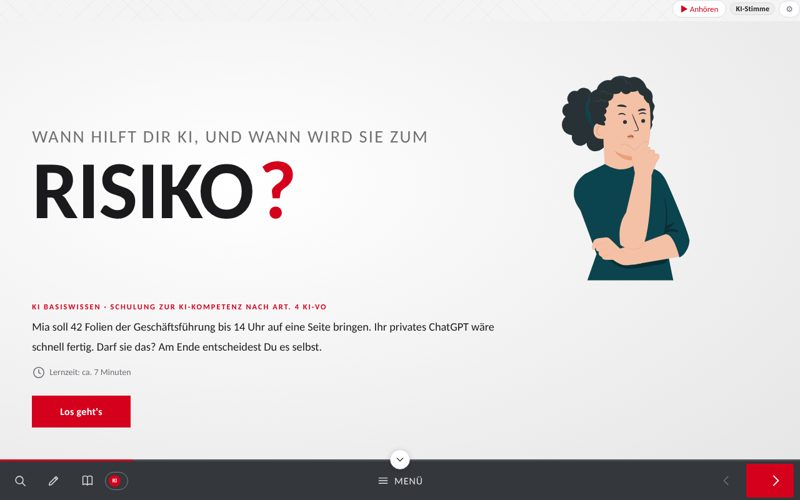
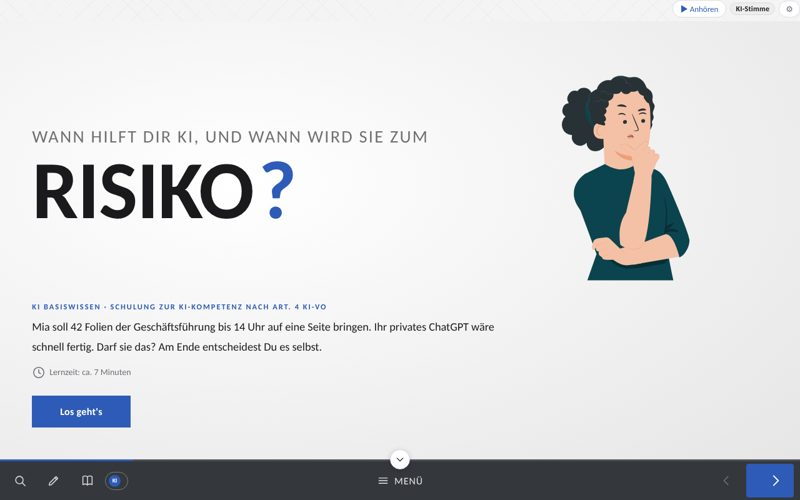
KI Basiswissen: Blau statt Rot als Signalfarbe
Claude-Session: https://claude.ai/code/session_01WgH7wEKPCAfXi4oXrFPgxG

diff --git a/portfoliokr/kurse/ki-basiswissen/course.js b/portfoliokr/kurse/ki-basiswissen/course.js
@@ -1,1 +1,1 @@
-window.COURSE = {"version":2,"id":"kibasis1","title":"KI Basiswissen","courseVersion":"1.4","passScore":80,"theme":{"primary":"#D5001C","accent":"#D5001C","bg":"#F4F4F5","text":"#1A1A1C","font":"Calibri, Carlito, \"Segoe UI\", sans-serif","headingFont":"Calibri, Carlito, \"Segoe UI\", sans-serif","radius":4,"style":"comic","mode":"hell","scale":"normal","width":"normal","density":"normal","look":"modern","effects":"hochwertig","sideLook":"","family":"comic","notation":""},"settings":{"toc":true,"progress":true,"gating":false,"notes":true,"trainerMode":false,"completion":"test","completionPercent":100,"resume":"ask","resumeReview":3,"clickHint":true,"anrede":"Du","confidence":false,"streak":false,"readTime":false,"chapterCounter":true,"greet":true,"milestone":"karte","nextCourse":{"title":"","url":"","text":"","label":""},"layout":"scroll","screen":true,"lernkarten":false,"fullscreen":false,"tour":false,"lernbuchIntro":false,"autoNarration":true,"narrCaptions":false,"slideNav":false,"questionCounter":true,"sameBoxes":false,"reviewAnswers":true,"uiTexts":{},"format":"","series":"","search":true,"sounds":true,"aiNotice":"Teile der Texte dieses Kurses sind mit Unterstützung künstlicher Intelligenz entstanden. Die Sprecherstimme an den Kapitelanfängen und in den drei Videos ist synthetisch erzeugt (Piper, Stimme Thorsten). Die Illustrationen stammen von Storyset und sind nicht mit KI erzeugt."},"lang":"de","languages":[],"objectives":[{"id":"lz1","text":"Du erklärst, wie eine KI aus Daten lernt und warum eine flüssige Antwort trotzdem falsch sein kann."},{"id":"lz2","text":"Du prüfst ein KI-Bild, eine KI-Stimme oder ein Video kritisch, bevor Du ihm glaubst oder es weitergibst."},{"id":"lz3","text":"Du schreibst einen Prompt mit Ziel, Kontext, Quelle und Erwartung und gibst einem Assistenten den nötigen Kontext mit."},{"id":"lz4","text":"Du entscheidest für eine Information, ob sie in ein KI-Werkzeug darf, und benennst, wann ein KI-Bild, eine KI-Stimme oder ein KI-Video gekennzeichnet werden muss."},{"id":"lz5","text":"Du wendest die vier Spielregeln an und handelst bei einer Panne richtig."}],"cast":[{"id":"mia","name":"Mia Albrecht","role":"Assistenz im Fachbereich, seit drei Wochen im Unternehmen (Beispielperson)","look":"image","image":{"src":"assets/ki-mia.svg","alt":"Gezeichnete junge Frau mit dunklen Locken, Hand am Kinn","caption":"","credit":"Illustration: Storyset (storyset.com)","focus":""},"color":"#004754","mascot":true,"poses":{"think":{"src":"assets/ki-mia-denkt.svg","alt":"Mia denkt nach","caption":"","credit":"Illustration: Storyset (storyset.com)","focus":""},"wave":{"src":"assets/ki-mia-winkt.svg","alt":"Mia winkt","caption":"","credit":"Illustration: Storyset (storyset.com)","focus":""},"happy":{"src":"assets/ki-mia-froh.svg","alt":"Mia lächelt über einem Buch","caption":"","credit":"Illustration: Storyset (storyset.com)","focus":""},"surprised":{"src":"assets/ki-mia-erschrocken.svg","alt":"Mia erschrickt","caption":"","credit":"Illustration: Storyset (storyset.com)","focus":""},"sad":{"src":"assets/ki-mia-traurig.svg","alt":"Mia stützt den Kopf in die Hand","caption":"","credit":"Illustration: Storyset (storyset.com)","focus":""},"skeptic":{"src":"assets/ki-mia-skeptisch.svg","alt":"Mia legt den Finger an die Lippen","caption":"","credit":"Illustration: Storyset (storyset.com)","focus":""}}},{"id":"can","name":"Can Yilmaz","role":"IT, Ansprechperson für KI-Fragen (Beispielperson)","look":"image","image":{"src":"assets/ki-can.svg","alt":"Gezeichneter junger Mann am Laptop, lächelnd","caption":"","credit":"Illustration: Storyset (storyset.com)","focus":""},"color":"#3D3C3C","poses":{"happy":{"src":"assets/ki-can.svg","alt":"Can lächelt am Laptop","caption":"","credit":"Illustration: Storyset (storyset.com)","focus":""},"think":{"src":"assets/ki-can-denkt.svg","alt":"Can denkt nach, Kopf auf die Hand gestützt","caption":"","credit":"Illustration: Storyset (storyset.com)","focus":""},"explain":{"src":"assets/ki-can-telefon.svg","alt":"Can telefoniert mit einem Kaffee in der Hand","caption":"","credit":"Illustration: Storyset (storyset.com)","focus":""}}}],"meters":[],"missionTheme":"","glossary":[{"term":"KI-VO","definition":"KI-Verordnung der EU, Verordnung (EU) 2024/1689. Sie regelt KI nach Risikostufen."},{"term":"Prompt","definition":"Die Anweisung, die Du einem KI-Werkzeug gibst."},{"term":"Halluzination","definition":"Eine KI-Antwort, die überzeugend klingt, aber erfunden ist."},{"term":"Trainingsdaten","definition":"Die Beispiele, aus denen eine KI ihre Muster gelernt hat."},{"term":"Sprachmodell","definition":"Eine KI, die Texte erzeugt, indem sie das wahrscheinlichste nächste Wort berechnet (englisch LLM)."},{"term":"Betreiber","definition":"Wer ein KI-System in eigener Verantwortung einsetzt. Dein Unternehmen ist Betreiber."},{"term":"Deepfake","definition":"Ein mit KI erzeugtes oder verändertes Bild, Video oder eine Stimme, das echt wirkt."},{"term":"KI-Agent","definition":"Ein KI-Werkzeug, das Schritte selbst erledigt, etwa suchen, schreiben und verschicken."},{"term":"Copilot","definition":"KI-Assistent von Microsoft. In vielen Unternehmen in der eigenen M365-Umgebung freigegeben."}],"assets":[{"name":"ki-can-denkt.svg","src":"assets/ki-can-denkt.svg"},{"name":"ki-can-telefon.svg","src":"assets/ki-can-telefon.svg"},{"name":"ki-can.svg","src":"assets/ki-can.svg"},{"name":"ki-illu-chatbot.svg","src":"assets/ki-illu-chatbot.svg"},{"name":"ki-kulisse-buero.svg","src":"assets/ki-kulisse-buero.svg"},{"name":"ki-mia-denkt.svg","src":"assets/ki-mia-denkt.svg"},{"name":"ki-mia-erschrocken.svg","src":"assets/ki-mia-erschrocken.svg"},{"name":"ki-mia-froh.svg","src":"assets/ki-mia-froh.svg"},{"name":"ki-mia-skeptisch.svg","src":"assets/ki-mia-skeptisch.svg"},{"name":"ki-mia-traurig.svg","src":"assets/ki-mia-traurig.svg"},{"name":"ki-mia-winkt.svg","src":"assets/ki-mia-winkt.svg"},{"name":"ki-mia.svg","src":"assets/ki-mia.svg"},{"name":"stimme-bhero.mp3","src":"assets/stimme-bhero.mp3"}],"css":"","chrome":{"header":"","footer":"","css":"","hideHeader":false,"hideFooter":false,"logo":null,"logoOnPages":false,"navPos":"menue","navColor":"","navInk":""},"pages":[{"id":"ptitel","title":"KI Basiswissen","eyebrow":"","chapter":"Darf ich das?","animation":"fade-in","hideTitle":true,"einflug":false,"arrange":"","tone":"","bgImage":null,"figures":[],"pattern":"","vsLeft":"","vsRight":"","mascotPose":"","next":"","css":"","blocks":[{"id":"bhero","type":"hero","eyebrow":"KI Basiswissen · Schulung zur KI-Kompetenz nach Art. 4 KI-VO","title":"Wann hilft Dir KI, und wann wird sie zum *Risiko*?","html":"<p>Mia soll 42 Folien der Geschäftsführung bis 14 Uhr auf eine Seite bringen. Ihr privates ChatGPT wäre schnell fertig. Darf sie das? Am Ende entscheidest Du es selbst.</p>","image":null,"layout":"frage","pose":"think","icon":"bulb","showTime":true,"time":"","cover":true,"startLabel":"Los geht's","narration":"assets/stimme-bhero.mp3","narrationAi":true,"narrationVtt":"WEBVTT\n\n00:00:00.000 --> 00:00:05.483\nMia soll zweiundvierzig Folien der Geschäftsführung bis vierzehn Uhr auf eine Seite bringen.\n\n00:00:05.483 --> 00:00:08.014\nIhr privates ChatGPT wäre schnell fertig.\n\n00:00:08.014 --> 00:00:09.279\nDarf sie das?\n\n00:00:09.279 --> 00:00:11.810\nAm Ende entscheidest Du es selbst."}]},{"id":"pszene1","title":"Montag, 9:12 Uhr","eyebrow":"","chapter":"Darf ich das?","animation":"fade-in","hideTitle":true,"einflug":false,"arrange":"","tone":"","bgImage":null,"figures":[],"pattern":"","vsLeft":"","vsRight":"","mascotPose":"","next":"","css":"","blocks":[{"id":"dlgmo","type":"dialog","title":"Montag, 9:12 Uhr: der Auftrag","background":{"src":"assets/ki-kulisse-buero.svg","alt":"Gezeichnetes Büro mit Schreibtisch, Laptop und Pflanze","caption":"","credit":"Illustration: Storyset (storyset.com)","focus":""},"mode":"auto","tts":false,"characters":[{"id":"cmia1","castId":"mia","side":"left","image":null},{"id":"ccan1","castId":"can","side":"right","image":null,"flip":true}],"lines":[{"char":"erzaehler","text":"Montag, 9:12 Uhr. Mia ist seit drei Wochen im Team und bekommt einen Auftrag.","pose":"","shot":"","audio":""},{"char":"cmia1","text":"42 Folien zur Strategie. Bis 14 Uhr auf eine Seite?","pose":"surprised","shot":"totale","audio":""},{"char":"cmia1","text":"Privat nutze ich ChatGPT. Das wäre in zwei Minuten fertig.","pose":"think","shot":"","audio":""},{"char":"ccan1","text":"Hallo Mia, ich bin Can aus der IT. Was steht denn in den Folien?","pose":"happy","shot":"schulter","audio":""},{"char":"cmia1","text":"Zahlen, Pläne, ein paar Namen. Ist das ein Problem?","pose":"skeptic","shot":"nah","audio":""},{"char":"ccan1","text":"Überleg Dir in Ruhe, was darin steckt. Ich muss los.","pose":"explain","shot":"","audio":""}],"decision":null,"stage":{"setting":"illustration","mood":"neutral"}}]},{"id":"pueberdich","title":"Bevor es losgeht: Über Dich","eyebrow":"","chapter":"Darf ich das?","animation":"fade-in","hideTitle":false,"einflug":false,"arrange":"bilduebung-links","tone":"","bgImage":{"src":"assets/ki-mia-winkt.svg","alt":"Mia winkt zur Begrüßung","focus":"","credit":"Illustration: Storyset (storyset.com)"},"figures":[],"pattern":"","vsLeft":"","vsRight":"","mascotPose":"","next":"","css":"","blocks":[{"id":"udich","type":"ueberdich","title":"","intro":"<p>Drei kurze Angaben zu Deinem Alltag. Sie kommen im Kurs wieder.</p>","roleQ":"Wie oft nutzt Du KI-Werkzeuge bei der Arbeit?","roles":["Fast täglich","Ab und zu","Bisher noch nie"],"goalQ":"Was willst Du nach dem Kurs mit KI anders machen?","goalPh":"Zum Beispiel: wissen, was in Copilot darf","caseQ":"Welche Aufgabe könnte KI Dir erleichtern?","casePh":"Zum Beispiel: aus meinen Stichpunkten ein Protokoll schreiben","showGoal":true,"button":"Speichern","thanks":"Danke. Deine Aufgabe kommt im Kurs wieder."}]},{"id":"pwasmia","title":"Was würdest Du an Mias Stelle tun?","eyebrow":"","chapter":"Darf ich das?","animation":"fade-in","hideTitle":false,"einflug":false,"arrange":"bilduebung","tone":"","bgImage":{"src":"assets/ki-mia-denkt.svg","alt":"Mia überlegt, die Hand am Kinn","focus":"","credit":"Illustration: Storyset (storyset.com)"},"figures":[],"pattern":"","vsLeft":"","vsRight":"","mascotPose":"","next":"","css":"","blocks":[{"id":"prmia","type":"predict","eyebrow":"Deine erste Einschätzung","mode":"choice","prompt":"Wähl spontan.","options":["Ins private ChatGPT laden","Erst die Einstufung prüfen","In ein Online-Werkzeug kopieren, ohne Namen","In der IT nachfragen"],"placeholder":"","revealLabel":"Festhalten","reveal":"<p>Gespeichert. In Kapitel 7 kommt Mias Montag zurück, dann entscheidest Du noch einmal.</p>"},{"id":"kfgefuehl","type":"kurzfrage","eyebrow":"Kurz gefragt","question":"Wie geht es Dir mit KI bei der Arbeit?","intro":"","look":"skala","mode":"","delay":3,"castId":"can","options":[{"text":"Eher unsicher","reply":"<p>Damit bist Du hier richtig. Der Kurs zeigt Dir Schritt für Schritt, worauf es ankommt.</p>"},{"text":"Neugierig","reply":"<p>Gut. Neugier hilft, solange Du die Spielregeln kennst. Die kommen gleich.</p>"},{"text":"Skeptisch","reply":"<p>Skepsis ist ein guter Prüfreflex. Du lernst hier, wann sie berechtigt ist.</p>"}],"askMore":"","placeholder":""}]},{"id":"pspielr","title":"Welche vier Spielregeln gelten ab heute?","eyebrow":"","chapter":"Darf ich das?","animation":"fade-in","hideTitle":false,"einflug":false,"arrange":"zweifarb","tone":"farbe","bgImage":null,"figures":[],"pattern":"","vsLeft":"","vsRight":"","mascotPose":"","next":"","css":"","blocks":[{"id":"tspielr","type":"text","html":"<ol><li><strong>Nur freigegebene Werkzeuge, nur mit dem Firmenkonto.</strong> Zum Beispiel Copilot in Deinem dienstlichen Microsoft-Konto (Word, Outlook, Teams). Die aktuelle Liste führt die IT. Ein privates Konto nutzt Du dienstlich nie.</li><li><strong>Nichts Vertrauliches eingeben</strong>, wenn das Werkzeug dafür nicht freigegeben ist.</li><li><strong>Das Ergebnis prüfen</strong>, bevor Du es weitergibst.</li><li><strong>Im Zweifel fragen</strong>, nach einer Panne sofort melden.</li></ol><p>Seit Juli 2026 heißt es im EU-Recht: Dein Unternehmen fördert die KI-Kompetenz seiner Beschäftigten mit passenden Maßnahmen[^1][^2]. Diese Schulung ist eine davon.</p>"},{"id":"srcspiel","type":"sources","title":"Quellen","items":["Verordnung (EU) 2024/1689 (KI-Verordnung), Art. 4 „KI-Kompetenz“, gilt seit 2. Februar 2025. Amtsblatt der EU, L, 12. Juli 2024.","Verordnung (EU) 2026/1744 (Digital Omnibus zur KI-Verordnung, 2026): neue Fassung von Art. 4, gilt seit 27. Juli 2026. Anbieter und Betreiber fördern die KI-Kompetenz ihres Personals."]},{"id":"imgspiel","type":"image","size":"medium","image":{"src":"assets/ki-illu-chatbot.svg","alt":"Gezeichneter Chatbot neben einem Smartphone mit Chatverlauf","caption":"","credit":"Illustration: Storyset (storyset.com)","focus":""}}]},{"id":"kr-ende","title":"Weiter im Gespräch","eyebrow":"","chapter":"Weiter im Gespräch","animation":"fade-in","hideTitle":false,"einflug":false,"arrange":"","tone":"","bgImage":null,"figures":[],"pattern":"","vsLeft":"","vsRight":"","mascotPose":"","next":"","css":"","blocks":[{"id":"kr-ende-text","type":"text","html":"<p id=\"kr-ende\">Weiter geht’s mit einem Gespräch. Stellen Sie mir Ihren Bedarf vor.</p>"}]}],"subtitle":"Schulung zur KI-Kompetenz nach Art. 4 KI-VO"};
+window.COURSE = {"version":2,"id":"kibasis1","title":"KI Basiswissen","courseVersion":"1.4","passScore":80,"theme":{"primary":"#2E5BB8","accent":"#2E5BB8","bg":"#F4F4F5","text":"#1A1A1C","font":"Calibri, Carlito, \"Segoe UI\", sans-serif","headingFont":"Calibri, Carlito, \"Segoe UI\", sans-serif","radius":4,"style":"comic","mode":"hell","scale":"normal","width":"normal","density":"normal","look":"modern","effects":"hochwertig","sideLook":"","family":"comic","notation":""},"settings":{"toc":true,"progress":true,"gating":false,"notes":true,"trainerMode":false,"completion":"test","completionPercent":100,"resume":"ask","resumeReview":3,"clickHint":true,"anrede":"Du","confidence":false,"streak":false,"readTime":false,"chapterCounter":true,"greet":true,"milestone":"karte","nextCourse":{"title":"","url":"","text":"","label":""},"layout":"scroll","screen":true,"lernkarten":false,"fullscreen":false,"tour":false,"lernbuchIntro":false,"autoNarration":true,"narrCaptions":false,"slideNav":false,"questionCounter":true,"sameBoxes":false,"reviewAnswers":true,"uiTexts":{},"format":"","series":"","search":true,"sounds":true,"aiNotice":"Teile der Texte dieses Kurses sind mit Unterstützung künstlicher Intelligenz entstanden. Die Sprecherstimme an den Kapitelanfängen und in den drei Videos ist synthetisch erzeugt (Piper, Stimme Thorsten). Die Illustrationen stammen von Storyset und sind nicht mit KI erzeugt."},"lang":"de","languages":[],"objectives":[{"id":"lz1","text":"Du erklärst, wie eine KI aus Daten lernt und warum eine flüssige Antwort trotzdem falsch sein kann."},{"id":"lz2","text":"Du prüfst ein KI-Bild, eine KI-Stimme oder ein Video kritisch, bevor Du ihm glaubst oder es weitergibst."},{"id":"lz3","text":"Du schreibst einen Prompt mit Ziel, Kontext, Quelle und Erwartung und gibst einem Assistenten den nötigen Kontext mit."},{"id":"lz4","text":"Du entscheidest für eine Information, ob sie in ein KI-Werkzeug darf, und benennst, wann ein KI-Bild, eine KI-Stimme oder ein KI-Video gekennzeichnet werden muss."},{"id":"lz5","text":"Du wendest die vier Spielregeln an und handelst bei einer Panne richtig."}],"cast":[{"id":"mia","name":"Mia Albrecht","role":"Assistenz im Fachbereich, seit drei Wochen im Unternehmen (Beispielperson)","look":"image","image":{"src":"assets/ki-mia.svg","alt":"Gezeichnete junge Frau mit dunklen Locken, Hand am Kinn","caption":"","credit":"Illustration: Storyset (storyset.com)","focus":""},"color":"#004754","mascot":true,"poses":{"think":{"src":"assets/ki-mia-denkt.svg","alt":"Mia denkt nach","caption":"","credit":"Illustration: Storyset (storyset.com)","focus":""},"wave":{"src":"assets/ki-mia-winkt.svg","alt":"Mia winkt","caption":"","credit":"Illustration: Storyset (storyset.com)","focus":""},"happy":{"src":"assets/ki-mia-froh.svg","alt":"Mia lächelt über einem Buch","caption":"","credit":"Illustration: Storyset (storyset.com)","focus":""},"surprised":{"src":"assets/ki-mia-erschrocken.svg","alt":"Mia erschrickt","caption":"","credit":"Illustration: Storyset (storyset.com)","focus":""},"sad":{"src":"assets/ki-mia-traurig.svg","alt":"Mia stützt den Kopf in die Hand","caption":"","credit":"Illustration: Storyset (storyset.com)","focus":""},"skeptic":{"src":"assets/ki-mia-skeptisch.svg","alt":"Mia legt den Finger an die Lippen","caption":"","credit":"Illustration: Storyset (storyset.com)","focus":""}}},{"id":"can","name":"Can Yilmaz","role":"IT, Ansprechperson für KI-Fragen (Beispielperson)","look":"image","image":{"src":"assets/ki-can.svg","alt":"Gezeichneter junger Mann am Laptop, lächelnd","caption":"","credit":"Illustration: Storyset (storyset.com)","focus":""},"color":"#3D3C3C","poses":{"happy":{"src":"assets/ki-can.svg","alt":"Can lächelt am Laptop","caption":"","credit":"Illustration: Storyset (storyset.com)","focus":""},"think":{"src":"assets/ki-can-denkt.svg","alt":"Can denkt nach, Kopf auf die Hand gestützt","caption":"","credit":"Illustration: Storyset (storyset.com)","focus":""},"explain":{"src":"assets/ki-can-telefon.svg","alt":"Can telefoniert mit einem Kaffee in der Hand","caption":"","credit":"Illustration: Storyset (storyset.com)","focus":""}}}],"meters":[],"missionTheme":"","glossary":[{"term":"KI-VO","definition":"KI-Verordnung der EU, Verordnung (EU) 2024/1689. Sie regelt KI nach Risikostufen."},{"term":"Prompt","definition":"Die Anweisung, die Du einem KI-Werkzeug gibst."},{"term":"Halluzination","definition":"Eine KI-Antwort, die überzeugend klingt, aber erfunden ist."},{"term":"Trainingsdaten","definition":"Die Beispiele, aus denen eine KI ihre Muster gelernt hat."},{"term":"Sprachmodell","definition":"Eine KI, die Texte erzeugt, indem sie das wahrscheinlichste nächste Wort berechnet (englisch LLM)."},{"term":"Betreiber","definition":"Wer ein KI-System in eigener Verantwortung einsetzt. Dein Unternehmen ist Betreiber."},{"term":"Deepfake","definition":"Ein mit KI erzeugtes oder verändertes Bild, Video oder eine Stimme, das echt wirkt."},{"term":"KI-Agent","definition":"Ein KI-Werkzeug, das Schritte selbst erledigt, etwa suchen, schreiben und verschicken."},{"term":"Copilot","definition":"KI-Assistent von Microsoft. In vielen Unternehmen in der eigenen M365-Umgebung freigegeben."}],"assets":[{"name":"ki-can-denkt.svg","src":"assets/ki-can-denkt.svg"},{"name":"ki-can-telefon.svg","src":"assets/ki-can-telefon.svg"},{"name":"ki-can.svg","src":"assets/ki-can.svg"},{"name":"ki-illu-chatbot.svg","src":"assets/ki-illu-chatbot.svg"},{"name":"ki-kulisse-buero.svg","src":"assets/ki-kulisse-buero.svg"},{"name":"ki-mia-denkt.svg","src":"assets/ki-mia-denkt.svg"},{"name":"ki-mia-erschrocken.svg","src":"assets/ki-mia-erschrocken.svg"},{"name":"ki-mia-froh.svg","src":"assets/ki-mia-froh.svg"},{"name":"ki-mia-skeptisch.svg","src":"assets/ki-mia-skeptisch.svg"},{"name":"ki-mia-traurig.svg","src":"assets/ki-mia-traurig.svg"},{"name":"ki-mia-winkt.svg","src":"assets/ki-mia-winkt.svg"},{"name":"ki-mia.svg","src":"assets/ki-mia.svg"},{"name":"stimme-bhero.mp3","src":"assets/stimme-bhero.mp3"}],"css":"","chrome":{"header":"","footer":"","css":"","hideHeader":false,"hideFooter":false,"logo":null,"logoOnPages":false,"navPos":"menue","navColor":"","navInk":""},"pages":[{"id":"ptitel","title":"KI Basiswissen","eyebrow":"","chapter":"Darf ich das?","animation":"fade-in","hideTitle":true,"einflug":false,"arrange":"","tone":"","bgImage":null,"figures":[],"pattern":"","vsLeft":"","vsRight":"","mascotPose":"","next":"","css":"","blocks":[{"id":"bhero","type":"hero","eyebrow":"KI Basiswissen · Schulung zur KI-Kompetenz nach Art. 4 KI-VO","title":"Wann hilft Dir KI, und wann wird sie zum *Risiko*?","html":"<p>Mia soll 42 Folien der Geschäftsführung bis 14 Uhr auf eine Seite bringen. Ihr privates ChatGPT wäre schnell fertig. Darf sie das? Am Ende entscheidest Du es selbst.</p>","image":null,"layout":"frage","pose":"think","icon":"bulb","showTime":true,"time":"","cover":true,"startLabel":"Los geht's","narration":"assets/stimme-bhero.mp3","narrationAi":true,"narrationVtt":"WEBVTT\n\n00:00:00.000 --> 00:00:05.483\nMia soll zweiundvierzig Folien der Geschäftsführung bis vierzehn Uhr auf eine Seite bringen.\n\n00:00:05.483 --> 00:00:08.014\nIhr privates ChatGPT wäre schnell fertig.\n\n00:00:08.014 --> 00:00:09.279\nDarf sie das?\n\n00:00:09.279 --> 00:00:11.810\nAm Ende entscheidest Du es selbst."}]},{"id":"pszene1","title":"Montag, 9:12 Uhr","eyebrow":"","chapter":"Darf ich das?","animation":"fade-in","hideTitle":true,"einflug":false,"arrange":"","tone":"","bgImage":null,"figures":[],"pattern":"","vsLeft":"","vsRight":"","mascotPose":"","next":"","css":"","blocks":[{"id":"dlgmo","type":"dialog","title":"Montag, 9:12 Uhr: der Auftrag","background":{"src":"assets/ki-kulisse-buero.svg","alt":"Gezeichnetes Büro mit Schreibtisch, Laptop und Pflanze","caption":"","credit":"Illustration: Storyset (storyset.com)","focus":""},"mode":"auto","tts":false,"characters":[{"id":"cmia1","castId":"mia","side":"left","image":null},{"id":"ccan1","castId":"can","side":"right","image":null,"flip":true}],"lines":[{"char":"erzaehler","text":"Montag, 9:12 Uhr. Mia ist seit drei Wochen im Team und bekommt einen Auftrag.","pose":"","shot":"","audio":""},{"char":"cmia1","text":"42 Folien zur Strategie. Bis 14 Uhr auf eine Seite?","pose":"surprised","shot":"totale","audio":""},{"char":"cmia1","text":"Privat nutze ich ChatGPT. Das wäre in zwei Minuten fertig.","pose":"think","shot":"","audio":""},{"char":"ccan1","text":"Hallo Mia, ich bin Can aus der IT. Was steht denn in den Folien?","pose":"happy","shot":"schulter","audio":""},{"char":"cmia1","text":"Zahlen, Pläne, ein paar Namen. Ist das ein Problem?","pose":"skeptic","shot":"nah","audio":""},{"char":"ccan1","text":"Überleg Dir in Ruhe, was darin steckt. Ich muss los.","pose":"explain","shot":"","audio":""}],"decision":null,"stage":{"setting":"illustration","mood":"neutral"}}]},{"id":"pueberdich","title":"Bevor es losgeht: Über Dich","eyebrow":"","chapter":"Darf ich das?","animation":"fade-in","hideTitle":false,"einflug":false,"arrange":"bilduebung-links","tone":"","bgImage":{"src":"assets/ki-mia-winkt.svg","alt":"Mia winkt zur Begrüßung","focus":"","credit":"Illustration: Storyset (storyset.com)"},"figures":[],"pattern":"","vsLeft":"","vsRight":"","mascotPose":"","next":"","css":"","blocks":[{"id":"udich","type":"ueberdich","title":"","intro":"<p>Drei kurze Angaben zu Deinem Alltag. Sie kommen im Kurs wieder.</p>","roleQ":"Wie oft nutzt Du KI-Werkzeuge bei der Arbeit?","roles":["Fast täglich","Ab und zu","Bisher noch nie"],"goalQ":"Was willst Du nach dem Kurs mit KI anders machen?","goalPh":"Zum Beispiel: wissen, was in Copilot darf","caseQ":"Welche Aufgabe könnte KI Dir erleichtern?","casePh":"Zum Beispiel: aus meinen Stichpunkten ein Protokoll schreiben","showGoal":true,"button":"Speichern","thanks":"Danke. Deine Aufgabe kommt im Kurs wieder."}]},{"id":"pwasmia","title":"Was würdest Du an Mias Stelle tun?","eyebrow":"","chapter":"Darf ich das?","animation":"fade-in","hideTitle":false,"einflug":false,"arrange":"bilduebung","tone":"","bgImage":{"src":"assets/ki-mia-denkt.svg","alt":"Mia überlegt, die Hand am Kinn","focus":"","credit":"Illustration: Storyset (storyset.com)"},"figures":[],"pattern":"","vsLeft":"","vsRight":"","mascotPose":"","next":"","css":"","blocks":[{"id":"prmia","type":"predict","eyebrow":"Deine erste Einschätzung","mode":"choice","prompt":"Wähl spontan.","options":["Ins private ChatGPT laden","Erst die Einstufung prüfen","In ein Online-Werkzeug kopieren, ohne Namen","In der IT nachfragen"],"placeholder":"","revealLabel":"Festhalten","reveal":"<p>Gespeichert. In Kapitel 7 kommt Mias Montag zurück, dann entscheidest Du noch einmal.</p>"},{"id":"kfgefuehl","type":"kurzfrage","eyebrow":"Kurz gefragt","question":"Wie geht es Dir mit KI bei der Arbeit?","intro":"","look":"skala","mode":"","delay":3,"castId":"can","options":[{"text":"Eher unsicher","reply":"<p>Damit bist Du hier richtig. Der Kurs zeigt Dir Schritt für Schritt, worauf es ankommt.</p>"},{"text":"Neugierig","reply":"<p>Gut. Neugier hilft, solange Du die Spielregeln kennst. Die kommen gleich.</p>"},{"text":"Skeptisch","reply":"<p>Skepsis ist ein guter Prüfreflex. Du lernst hier, wann sie berechtigt ist.</p>"}],"askMore":"","placeholder":""}]},{"id":"pspielr","title":"Welche vier Spielregeln gelten ab heute?","eyebrow":"","chapter":"Darf ich das?","animation":"fade-in","hideTitle":false,"einflug":false,"arrange":"zweifarb","tone":"farbe","bgImage":null,"figures":[],"pattern":"","vsLeft":"","vsRight":"","mascotPose":"","next":"","css":"","blocks":[{"id":"tspielr","type":"text","html":"<ol><li><strong>Nur freigegebene Werkzeuge, nur mit dem Firmenkonto.</strong> Zum Beispiel Copilot in Deinem dienstlichen Microsoft-Konto (Word, Outlook, Teams). Die aktuelle Liste führt die IT. Ein privates Konto nutzt Du dienstlich nie.</li><li><strong>Nichts Vertrauliches eingeben</strong>, wenn das Werkzeug dafür nicht freigegeben ist.</li><li><strong>Das Ergebnis prüfen</strong>, bevor Du es weitergibst.</li><li><strong>Im Zweifel fragen</strong>, nach einer Panne sofort melden.</li></ol><p>Seit Juli 2026 heißt es im EU-Recht: Dein Unternehmen fördert die KI-Kompetenz seiner Beschäftigten mit passenden Maßnahmen[^1][^2]. Diese Schulung ist eine davon.</p>"},{"id":"srcspiel","type":"sources","title":"Quellen","items":["Verordnung (EU) 2024/1689 (KI-Verordnung), Art. 4 „KI-Kompetenz“, gilt seit 2. Februar 2025. Amtsblatt der EU, L, 12. Juli 2024.","Verordnung (EU) 2026/1744 (Digital Omnibus zur KI-Verordnung, 2026): neue Fassung von Art. 4, gilt seit 27. Juli 2026. Anbieter und Betreiber fördern die KI-Kompetenz ihres Personals."]},{"id":"imgspiel","type":"image","size":"medium","image":{"src":"assets/ki-illu-chatbot.svg","alt":"Gezeichneter Chatbot neben einem Smartphone mit Chatverlauf","caption":"","credit":"Illustration: Storyset (storyset.com)","focus":""}}]},{"id":"kr-ende","title":"Weiter im Gespräch","eyebrow":"","chapter":"Weiter im Gespräch","animation":"fade-in","hideTitle":false,"einflug":false,"arrange":"","tone":"","bgImage":null,"figures":[],"pattern":"","vsLeft":"","vsRight":"","mascotPose":"","next":"","css":"","blocks":[{"id":"kr-ende-text","type":"text","html":"<p id=\"kr-ende\">Weiter geht’s mit einem Gespräch. Stellen Sie mir Ihren Bedarf vor.</p>"}]}],"subtitle":"Schulung zur KI-Kompetenz nach Art. 4 KI-VO"};
